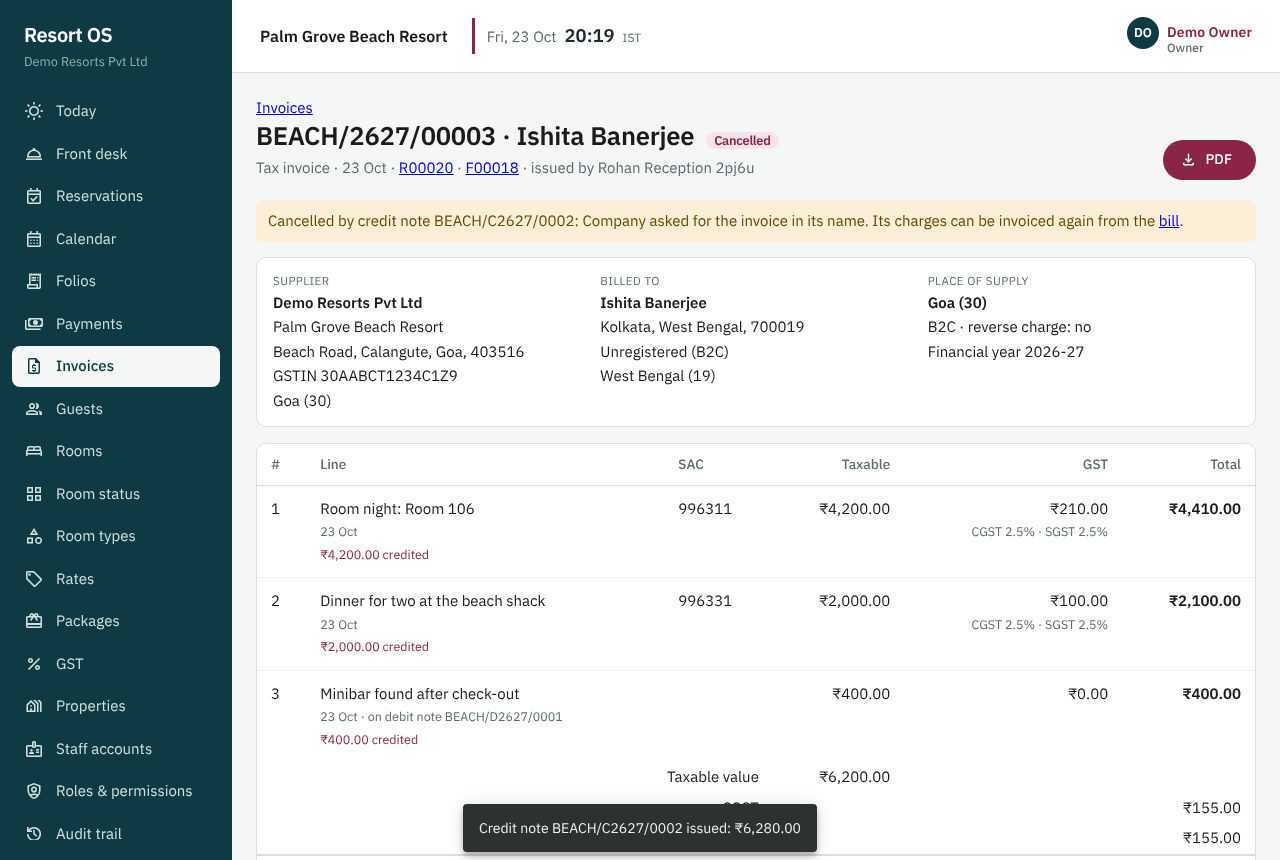
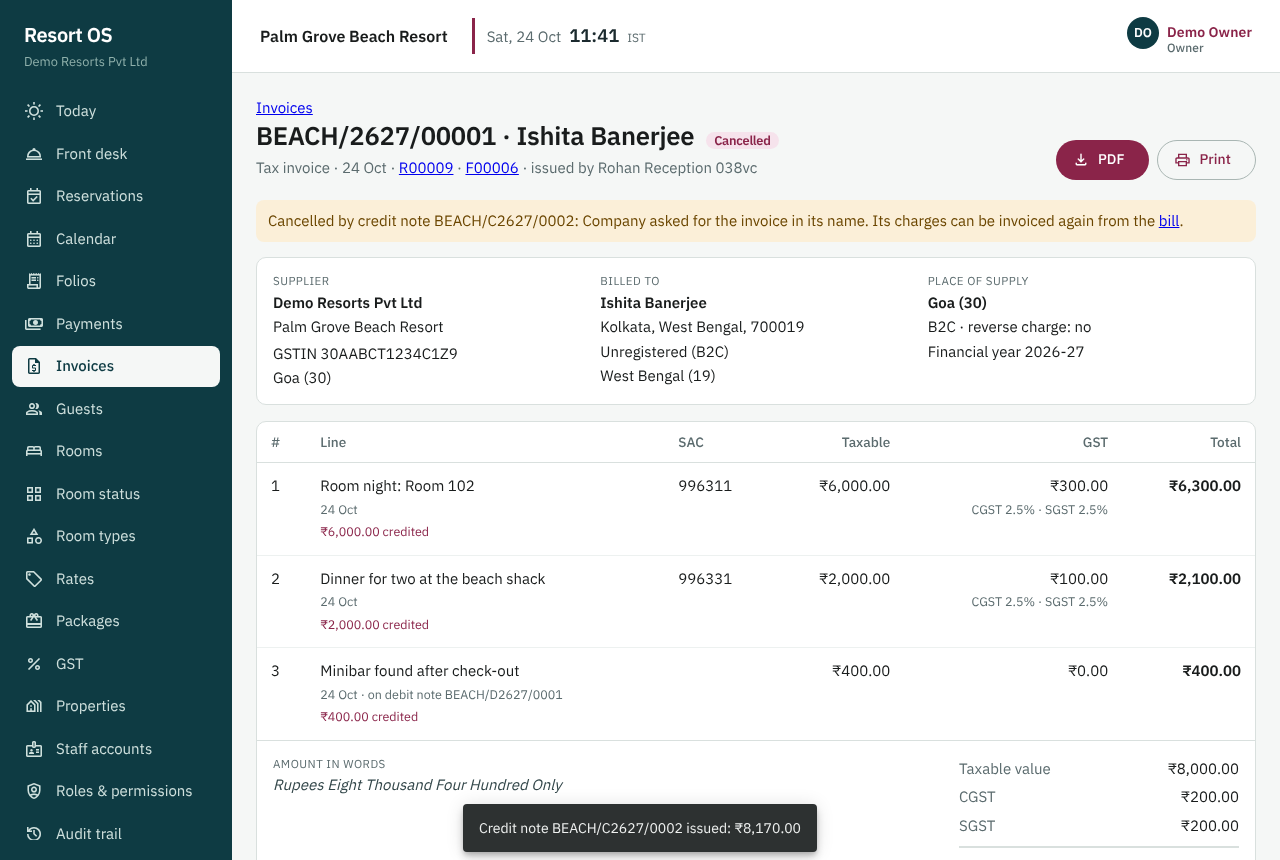
Sprint 12: tidy the invoice screens and PDFs, add Print
- Issue invoice dialog: give it a proper width so nothing is cut off; the lines
  sit in a boxed table with date, SAC and tax rates on a second line; fields
  are spaced so hints no longer touch the next label.
- Credit note dialog: lines in a boxed list, one row each, amount aligned.
- Invoice page: totals in a right-hand block (taxable value, CGST, SGST,
  invoice total) beside the amount in words, instead of scattered table rows.
- Invoices list: space between the number and its status chip.
- Print button on the invoice, its notes and receipts: opens the browser's
  print dialog on the same A4 PDF.
- PDF: wider HSN/SAC column, roomier rows, totals labels no longer wrap.
- Screenshots re-taken.

Claude-Session: https://claude.ai/code/session_01YUGRFpoQRR4EgvNozatgo4

diff --git a/frontend/src/app/features/invoices/invoice.page.ts b/frontend/src/app/features/invoices/invoice.page.ts
@@ -36,6 +36,7 @@ import { InvoicesApi, PdfKind, invoiceStatusClass, invoiceStatusLabel, lineTaxTe
           </div>
           <div class="head-actions">
             <button mat-flat-button (click)="pdf('invoices', i.id, i.number)" [disabled]="busy()"><mat-icon>download</mat-icon>PDF</button>
+            <button mat-stroked-button (click)="print('invoices', i.id)" [disabled]="busy()"><mat-icon>print</mat-icon>Print</button>
             @if (canCredit() && i.status !== 'CANCELLED' && i.outstanding > 0) {
               <button mat-stroked-button (click)="credit()" [disabled]="busy()"><mat-icon>remove_circle_outline</mat-icon>Credit note</button>
             }
@@ -82,17 +83,17 @@ import { InvoicesApi, PdfKind, invoiceStatusClass, invoiceStatusLabel, lineTaxTe
                 </tr>
               }
             </tbody>
-            <tfoot>
-              <tr><td colspan="3" class="right">Taxable value</td><td class="right num">{{ money(i.taxableValue) }}</td><td class="hide-sm"></td><td></td></tr>
-              @if (i.cgst) { <tr><td colspan="3" class="right">CGST</td><td></td><td class="hide-sm"></td><td class="right num">{{ money(i.cgst) }}</td></tr> }
-              @if (i.sgst) { <tr><td colspan="3" class="right">SGST</td><td></td><td class="hide-sm"></td><td class="right num">{{ money(i.sgst) }}</td></tr> }
-              @if (i.igst) { <tr><td colspan="3" class="right">IGST</td><td></td><td class="hide-sm"></td><td class="right num">{{ money(i.igst) }}</td></tr> }
-              <tr class="grand"><td colspan="3" class="right"><b>Invoice total</b></td><td></td><td class="hide-sm"></td>
-                <td class="right num"><b data-testid="invoice-total">{{ money(i.total) }}</b></td></tr>
-            </tfoot>
           </table>
-          <p class="words">{{ i.amountInWords }}</p>
-          @if (i.notes) { <p class="mute words">{{ i.notes }}</p> }
+          <div class="foot">
+            <div class="words"><span>Amount in words</span>{{ i.amountInWords }}@if (i.notes) { <p class="mute">{{ i.notes }}</p> }</div>
+            <dl class="totals" data-testid="totals">
+              <div><dt>Taxable value</dt><dd class="num">{{ money(i.taxableValue) }}</dd></div>
+              @if (i.cgst) { <div><dt>CGST</dt><dd class="num">{{ money(i.cgst) }}</dd></div> }
+              @if (i.sgst) { <div><dt>SGST</dt><dd class="num">{{ money(i.sgst) }}</dd></div> }
+              @if (i.igst) { <div><dt>IGST</dt><dd class="num">{{ money(i.igst) }}</dd></div> }
+              <div class="grand"><dt>Invoice total</dt><dd class="num" data-testid="invoice-total">{{ money(i.total) }}</dd></div>
+            </dl>
+          </div>
         </div>
 
         @if (i.creditNotes.length || i.debitNotes.length) {
@@ -116,8 +117,9 @@ import { InvoicesApi, PdfKind, invoiceStatusClass, invoiceStatusLabel, lineTaxTe
                     <td class="hide-sm">@for (l of n.lines; track l.lineNo) { <div>{{ l.description }} <small class="mute num">{{ money(l.total) }}</small></div> }</td>
                     <td class="right num"><b [class.bad]="n.kind === 'CREDIT_NOTE'">{{ n.kind === 'CREDIT_NOTE' ? '− ' : '' }}{{ money(n.total) }}</b>
                       <br /><small class="mute">GST {{ money(n.taxTotal) }}</small></td>
-                    <td class="right"><button mat-button (click)="pdf(n.kind === 'CREDIT_NOTE' ? 'credit-notes' : 'debit-notes', n.id, n.number)"
-                      [attr.aria-label]="'PDF of ' + n.number"><mat-icon>download</mat-icon>PDF</button></td>
+                    <td class="right doc-actions"><button mat-button (click)="pdf(noteKind(n), n.id, n.number)"
+                      [attr.aria-label]="'PDF of ' + n.number"><mat-icon>download</mat-icon>PDF</button>
+                      <button mat-icon-button (click)="print(noteKind(n), n.id)" [attr.aria-label]="'Print ' + n.number"><mat-icon>print</mat-icon></button></td>
                   </tr>
                 }
               </tbody>
@@ -136,7 +138,8 @@ import { InvoicesApi, PdfKind, invoiceStatusClass, invoiceStatusLabel, lineTaxTe
                   <td class="hide-sm"><a [routerLink]="['/payments', r.paymentId]" class="num">{{ r.paymentNumber }}</a> · {{ methodLabel(r.method) }}
                     @if (r.paymentReference) { <small class="mute"> · {{ r.paymentReference }}</small> }</td>
                   <td class="right num"><b>{{ money(r.amount) }}</b></td>
-                  <td class="right"><button mat-button (click)="pdf('receipts', r.id, r.number)" [attr.aria-label]="'PDF of ' + r.number"><mat-icon>download</mat-icon>PDF</button></td>
+                  <td class="right doc-actions"><button mat-button (click)="pdf('receipts', r.id, r.number)" [attr.aria-label]="'PDF of ' + r.number"><mat-icon>download</mat-icon>PDF</button>
+                    <button mat-icon-button (click)="print('receipts', r.id)" [attr.aria-label]="'Print ' + r.number"><mat-icon>print</mat-icon></button></td>
                 </tr>
               } @empty {
                 <tr><td colspan="4" class="empty">No receipt yet. A receipt is issued for each payment on the booking at check-out, or from the payment.</td></tr>
@@ -154,6 +157,7 @@ import { InvoicesApi, PdfKind, invoiceStatusClass, invoiceStatusLabel, lineTaxTe
     .wide { max-width: 1100px; }
     h2 { margin: 20px 0 8px; }
     .head-actions { display: flex; gap: 8px; flex-wrap: wrap; }
+    .doc-actions { white-space: nowrap; }
     .note { background: #fbefd8; color: #6b4600; border-radius: 8px; padding: 10px 12px; }
     .parties { display: grid; grid-template-columns: repeat(3, 1fr); gap: 16px; background: #fff; border: 1px solid #d9e0de; border-radius: 10px;
                padding: 14px 16px; margin-bottom: 16px; }
@@ -163,7 +167,18 @@ import { InvoicesApi, PdfKind, invoiceStatusClass, invoiceStatusLabel, lineTaxTe
     .sums > div { display: flex; flex-direction: column; background: #fff; border: 1px solid #d9e0de; border-radius: 10px; padding: 10px 14px; min-width: 140px; }
     .sums span { color: #5b6b6e; font-size: .8rem; }
     .sums b { font-size: 1.2rem; color: #0e3b43; }
-    .words { padding: 8px 16px 12px; margin: 0; font-style: italic; }
+    .foot { display: flex; justify-content: space-between; align-items: flex-start; gap: 24px; padding: 14px 16px 16px;
+            border-top: 1px solid #d9e0de; }
+    .words { font-style: italic; color: #33474a; max-width: 460px; }
+    .words span { display: block; font-style: normal; color: #5b6b6e; text-transform: uppercase; font-size: .72rem; letter-spacing: .04em; margin-bottom: 2px; }
+    .words p { margin: 8px 0 0; font-style: normal; }
+    .totals { margin: 0; min-width: 280px; }
+    .totals > div { display: flex; justify-content: space-between; gap: 24px; padding: 3px 0; }
+    .totals dt { color: #5b6b6e; }
+    .totals dd { margin: 0; text-align: right; }
+    .totals .grand { border-top: 2px solid #d9e0de; margin-top: 6px; padding-top: 8px; font-size: 1.1rem; }
+    .totals .grand dt { color: #1b2a2e; font-weight: 600; }
+    .totals .grand dd { font-weight: 700; color: #0e3b43; }
     .mute { color: #5b6b6e; }
     .why { color: #8a2449; }
     .bad, .sums b.bad { color: #b3261e; }
@@ -176,10 +191,10 @@ import { InvoicesApi, PdfKind, invoiceStatusClass, invoiceStatusLabel, lineTaxTe
     .chip.off { background: #eceff0; color: #5b6b6e; }
     .chip.wait { background: #fbefd8; color: #8a5a00; }
     tr.reversed b { text-decoration: line-through; color: #7a8a8c; }
-    tfoot td { border-bottom: 0; padding-top: 4px; padding-bottom: 4px; }
-    tfoot tr.grand td { border-top: 2px solid #d9e0de; padding-top: 10px; }
     @media (max-width: 760px) {
       .parties { grid-template-columns: 1fr; }
+      .foot { flex-direction: column-reverse; }
+      .totals { width: 100%; min-width: 0; }
       table.data td, table.data th { padding: 10px 8px; }
     }
   `,
@@ -239,8 +254,20 @@ export class InvoicePage {
     });
   }
 
+  noteKind(n: InvoiceNote): PdfKind { return n.kind === 'CREDIT_NOTE' ? 'credit-notes' : 'debit-notes'; }
+
+  /** Opens the browser's print dialog on the same PDF the download gives. */
+  print(kind: PdfKind, id: string) {
+    this.error.set('');
+    this.busy.set(true);
+    this.api.print(this.pid(), kind, id).subscribe({
+      next: () => this.busy.set(false),
+      error: e => { this.busy.set(false); this.error.set(toProblem(e).detail); },
+    });
+  }
+
   credit() {
-    this.dialog.open(CreditNoteDialog, { data: { propertyId: this.pid(), invoice: this.i()!, canCancel: this.canCancel() }, autoFocus: 'first-tabbable' })
+    this.dialog.open(CreditNoteDialog, { data: { propertyId: this.pid(), invoice: this.i()!, canCancel: this.canCancel() }, width: '640px', maxWidth: '95vw', autoFocus: 'first-tabbable' })
       .afterClosed().subscribe((r: Invoice | undefined) => {
         if (!r) return;
         this.i.set(r);

diff --git a/frontend/src/app/features/invoices/invoice-dialogs.ts b/frontend/src/app/features/invoices/invoice-dialogs.ts
@@ -31,20 +31,24 @@ export interface IssueInvoiceData { propertyId: string; preview: InvoicePreview;
   template: `
     <h2 mat-dialog-title>Issue the {{ title.toLowerCase() }} for <span class="num">{{ p.folioNumber }}</span></h2>
     <form mat-dialog-content [formGroup]="form" (ngSubmit)="save()" id="invoice-form">
-      <table class="lines" aria-label="Lines on the invoice">
-        <thead><tr><th>Line</th><th class="right">Taxable</th><th class="right">GST</th><th class="right">Total</th></tr></thead>
-        <tbody>
-          @for (l of p.lines; track l.folioItemId) {
-            <tr><td>{{ l.description }} <small class="mute">· {{ shortDate(l.serviceDate) }}@if (l.hsnSac) { · SAC {{ l.hsnSac }} }</small>
-                  @if (l.discount) { <br /><small class="mute">{{ money(l.grossAmount) }} less {{ money(l.discount) }} credited</small> }</td>
-              <td class="right num">{{ money(l.taxableValue) }}</td>
-              <td class="right num">{{ money(l.taxAmount) }}@if (l.taxes.length) { <br /><small class="mute">{{ taxText(l) }}</small> }</td>
-              <td class="right num">{{ money(l.total) }}</td></tr>
-          }
-        </tbody>
-        <tfoot><tr><td><b>Total</b></td><td class="right num">{{ money(p.taxableValue) }}</td><td class="right num">{{ money(p.taxTotal) }}</td>
-          <td class="right num"><b data-testid="invoice-total">{{ money(p.total) }}</b></td></tr></tfoot>
-      </table>
+      <div class="preview">
+        <table class="lines" aria-label="Lines on the invoice">
+          <thead><tr><th>Line</th><th class="right">Taxable</th><th class="right">GST</th><th class="right">Total</th></tr></thead>
+          <tbody>
+            @for (l of p.lines; track l.folioItemId) {
+              <tr>
+                <td>{{ l.description }}<small class="mute">{{ shortDate(l.serviceDate) }}@if (l.hsnSac) { · SAC {{ l.hsnSac }} }
+                  @if (l.discount) { · {{ money(l.grossAmount) }} less {{ money(l.discount) }} credited }</small></td>
+                <td class="right num">{{ money(l.taxableValue) }}</td>
+                <td class="right num">{{ money(l.taxAmount) }}<small class="mute">{{ taxText(l) || 'No GST' }}</small></td>
+                <td class="right num">{{ money(l.total) }}</td>
+              </tr>
+            }
+          </tbody>
+          <tfoot><tr><td>Total</td><td class="right num">{{ money(p.taxableValue) }}</td><td class="right num">{{ money(p.taxTotal) }}</td>
+            <td class="right num" data-testid="invoice-total">{{ money(p.total) }}</td></tr></tfoot>
+        </table>
+      </div>
 
       <h3>Bill to</h3>
       <mat-form-field appearance="outline" class="full">
@@ -80,7 +84,7 @@ export interface IssueInvoiceData { propertyId: string; preview: InvoicePreview;
         <input matInput formControlName="notes" maxlength="500" placeholder="e.g. Company booking via Acme" />
         <mat-error>{{ err('notes') }}</mat-error>
       </mat-form-field>
-      <p class="hint">Place of supply is {{ supplyState() }}, where the resort is, so a hotel stay is charged CGST and SGST even
+      <p class="info">Place of supply is {{ supplyState() }}, where the resort is, so a hotel stay is charged CGST and SGST even
         for a company from another state. Once issued, the invoice can't be changed: correct it with a credit note.</p>
       @if (error()) { <p class="err" role="alert">{{ error() }}</p> }
     </form>
@@ -90,18 +94,23 @@ export interface IssueInvoiceData { propertyId: string; preview: InvoicePreview;
     </div>
   `,
   styles: `
-    form { min-width: min(620px, 86vw); display: flex; flex-direction: column; }
-    h3 { margin: 16px 0 8px; font-size: 1rem; }
-    .lines { width: 100%; border-collapse: collapse; margin-bottom: 4px; }
-    .lines th { text-align: left; color: #5b6b6e; font-weight: 500; font-size: .85rem; padding: 4px 6px; border-bottom: 1px solid #d9e0de; }
-    .lines td { padding: 6px; border-bottom: 1px solid #edf1f0; vertical-align: top; }
-    .lines tfoot td { border-bottom: 0; border-top: 2px solid #d9e0de; }
+    form { display: flex; flex-direction: column; gap: 8px; }
+    form > * { flex-shrink: 0; }
+    h3 { margin: 12px 0 4px; font-size: 1rem; font-weight: 500; }
+    .preview { border: 1px solid #d9e0de; border-radius: 10px; overflow-x: auto; }
+    .lines { width: 100%; border-collapse: collapse; }
+    .lines th { text-align: left; color: #5b6b6e; font-weight: 500; font-size: .8rem; padding: 8px 12px; background: #f6f8f7;
+                border-bottom: 1px solid #d9e0de; white-space: nowrap; }
+    .lines td { padding: 8px 12px; border-bottom: 1px solid #edf1f0; vertical-align: top; }
+    .lines td small { display: block; margin-top: 2px; font-size: .78rem; }
+    .lines td.num { white-space: nowrap; }
+    .lines tfoot td { border-bottom: 0; font-weight: 600; background: #f6f8f7; }
     .right { text-align: right !important; }
     .full { width: 100%; }
-    .row { display: grid; grid-template-columns: 1fr 1fr; gap: 12px; }
+    .row { display: grid; grid-template-columns: 1fr 1fr; gap: 0 16px; }
     .upper { text-transform: uppercase; }
-    .hint, .mute { color: #5b6b6e; }
-    .hint { margin: 4px 0 8px; font-size: .9rem; }
+    .mute { color: #5b6b6e; }
+    .info { margin: 4px 0 0; padding: 10px 12px; border-radius: 8px; background: #eef4f3; color: #33474a; font-size: .88rem; line-height: 1.4; }
     .err { color: #b3261e; }
     @media (max-width: 600px) { .row { grid-template-columns: 1fr; } }
   `,
@@ -213,7 +222,7 @@ export interface CreditNoteData { propertyId: string; invoice: Invoice; canCance
               <mat-checkbox formControlName="on">{{ l.description }}@if (l.debitNoteNumber) { <small class="mute"> · {{ l.debitNoteNumber }}</small> }
                 <br /><small class="mute">{{ money(l.creditable) }} of {{ money(l.taxableValue) }} left · {{ taxText(l) || 'no GST' }}</small></mat-checkbox>
               @if (lineOn(k)) {
-                <mat-form-field appearance="outline" class="amt">
+                <mat-form-field appearance="outline" class="amt" subscriptSizing="dynamic">
                   <mat-label>Amount (₹)</mat-label>
                   <input matInput type="number" formControlName="amount" min="0.01" [max]="l.creditable" step="0.01" />
                   <mat-error>{{ lineError(k) || 'Enter ₹0.01 to ' + money(l.creditable) + '.' }}</mat-error>
@@ -239,11 +248,14 @@ export interface CreditNoteData { propertyId: string; invoice: Invoice; canCance
     </div>
   `,
   styles: `
-    form { min-width: min(560px, 86vw); display: flex; flex-direction: column; }
+    form { display: flex; flex-direction: column; }
     .mode { margin-bottom: 12px; align-self: flex-start; }
-    .lines { display: flex; flex-direction: column; gap: 4px; max-height: 300px; overflow: auto; margin-bottom: 8px; }
-    .line { display: flex; align-items: flex-start; justify-content: space-between; gap: 12px; flex-wrap: wrap; }
-    .amt { width: 150px; }
+    .lines { display: flex; flex-direction: column; max-height: 320px; overflow: auto; margin-bottom: 12px; border: 1px solid #d9e0de;
+             border-radius: 10px; }
+    .line { display: flex; align-items: center; justify-content: space-between; gap: 12px; flex-wrap: wrap; min-height: 56px;
+            padding: 6px 12px 6px 4px; border-bottom: 1px solid #edf1f0; }
+    .line:last-child { border-bottom: 0; }
+    .amt { width: 150px; padding-top: 6px; }
     .full { width: 100%; }
     .hint, .mute { color: #5b6b6e; }
     .hint { margin: 0 0 8px; }

diff --git a/frontend/src/app/features/invoices/invoices.api.ts b/frontend/src/app/features/invoices/invoices.api.ts
@@ -50,6 +50,14 @@ export class InvoicesApi {
       catchError((e: unknown) => from(jsonError(e)).pipe(switchMap(err => throwError(() => err)))),
     );
   }
+
+  /** Prints a document's PDF: loads it into a hidden frame and opens the browser's print dialog on it. */
+  print(pid: string, kind: PdfKind, id: string): Observable<void> {
+    return this.http.get(`${this.base(pid)}/${kind}/${id}/pdf`, { responseType: 'blob' }).pipe(
+      map(blob => printPdf(blob)),
+      catchError((e: unknown) => from(jsonError(e)).pipe(switchMap(err => throwError(() => err)))),
+    );
+  }
 }
 
 /** The file name in a Content-Disposition header (filename*=UTF-8''… or filename=…). */
@@ -73,6 +81,20 @@ function save(blob: Blob, name: string) {
   a.click();
   a.remove();
   setTimeout(() => URL.revokeObjectURL(url), 1000);
+}
+
+function printPdf(blob: Blob) {
+  const url = URL.createObjectURL(new Blob([blob], { type: 'application/pdf' }));
+  const frame = document.createElement('iframe');
+  frame.style.cssText = 'position:fixed;right:0;bottom:0;width:0;height:0;border:0';
+  frame.src = url;
+  frame.onload = () => {
+    frame.contentWindow?.focus();
+    frame.contentWindow?.print();
+    // the print dialog blocks until closed in most browsers; keep the frame a while for those where it doesn't
+    setTimeout(() => { frame.remove(); URL.revokeObjectURL(url); }, 60_000);
+  };
+  document.body.appendChild(frame);
 }
 
 /** A failed blob request carries the API's JSON error as a Blob: read it back so toProblem shows the real reason. */

diff --git a/frontend/src/app/features/invoices/invoices.page.ts b/frontend/src/app/features/invoices/invoices.page.ts
@@ -57,7 +57,7 @@ type Period = 'today' | 'week' | 'month' | 'all';
           <tbody>
             @for (i of result()?.items ?? []; track i.id) {
               <tr class="clickable" (click)="open(i.id)" tabindex="0" (keydown.enter)="open(i.id)" [attr.data-invoice]="i.number">
-                <td><b class="num">{{ i.number }}</b> <span [class]="'chip ' + statusClass(i.status)">{{ statusLabel(i.status) }}</span>
+                <td><b class="num">{{ i.number }}</b><span [class]="'chip status ' + statusClass(i.status)">{{ statusLabel(i.status) }}</span>
                   <br /><small class="mute">{{ shortDate(i.invoiceDate) }}@if (i.documentType !== 'INVOICE') { · {{ docLabel(i.documentType) }} }
                   @if (i.creditNotes) { · {{ i.creditNotes }} credit note{{ i.creditNotes === 1 ? '' : 's' }} }
                   @if (i.debitNotes) { · {{ i.debitNotes }} debit note{{ i.debitNotes === 1 ? '' : 's' }} }</small></td>
@@ -98,6 +98,7 @@ type Period = 'today' | 'week' | 'month' | 'all';
     .bad { color: #b3261e; }
     .right { text-align: right; }
     .void { text-decoration: line-through; color: #7a8a8c; }
+    .chip.status { margin-left: 8px; }
     .chip.ok { background: #e1f2e8; color: #1d5b36; }
     .chip.back { background: #f6e3ec; color: #8a2449; }
     .chip.off { background: #eceff0; color: #5b6b6e; }

diff --git a/frontend/e2e/sprint-12.spec.ts b/frontend/e2e/sprint-12.spec.ts
@@ -181,8 +181,8 @@ test('S12-04 The company wants the invoice: cancel it with a credit note, then i
   await expect(m.getByTestId('customer')).toHaveText('Acme Travels Pvt Ltd');
   await expect(m.getByTestId('customer-gstin')).toHaveText('GSTIN 27AAPFU0939F1ZV');
   await expect(m.locator('.parties')).toContainText('Goa (30)');
-  await expect(m.locator('tfoot')).toContainText('CGST');
-  await expect(m.locator('tfoot')).not.toContainText('IGST');
+  await expect(m.getByTestId('totals')).toContainText('CGST');
+  await expect(m.getByTestId('totals')).not.toContainText('IGST');
   await expect(m.locator('[data-line^="Dinner"]')).toContainText(`less ${money(600)} credited before`);
   await shot(m, '09-b2b-invoice');
 });

diff --git a/frontend/src/app/features/folios/folio.page.ts b/frontend/src/app/features/folios/folio.page.ts
@@ -239,7 +239,7 @@ export class FolioPage {
       next: preview => {
         this.preview.set(preview);
         if (preview.cantIssueReason) { this.error.set(preview.cantIssueReason); return; }
-        this.dialog.open(IssueInvoiceDialog, { data: { propertyId: this.pid(), preview }, autoFocus: 'first-tabbable' })
+        this.dialog.open(IssueInvoiceDialog, { data: { propertyId: this.pid(), preview }, width: '720px', maxWidth: '95vw', autoFocus: 'first-tabbable' })
           .afterClosed().subscribe((i: Invoice | undefined) => {
             if (!i) return;
             this.load(f.id);

diff --git a/backend/Resort.Infrastructure/Documents/PdfRenderer.cs b/backend/Resort.Infrastructure/Documents/PdfRenderer.cs
@@ -105,9 +105,11 @@ public sealed class PdfRenderer : IPdfRenderer
         if (d.Totals.Count > 0)
         {
             var totals = section.AddTable();
-            totals.AddColumn(Unit.FromCentimeter(12.5));
-            totals.AddColumn(Unit.FromCentimeter(3));
-            totals.AddColumn(Unit.FromCentimeter(2.5));
+            totals.AddColumn(Unit.FromCentimeter(11));
+            totals.AddColumn(Unit.FromCentimeter(4.2));
+            totals.AddColumn(Unit.FromCentimeter(2.8));
+            totals.RightPadding = Unit.FromPoint(3);
+            totals.TopPadding = totals.BottomPadding = Unit.FromPoint(1.5);
             foreach (var (label, value, bold) in d.Totals)
             {
                 var row = totals.AddRow();
@@ -159,7 +161,7 @@ public sealed class PdfRenderer : IPdfRenderer
         table.Borders.Color = Rule;
         table.Borders.Width = 0.5;
         table.LeftPadding = table.RightPadding = Unit.FromPoint(3);
-        table.TopPadding = table.BottomPadding = Unit.FromPoint(2);
+        table.TopPadding = table.BottomPadding = Unit.FromPoint(3);
         foreach (var c in t.Columns)
         {
             var col = table.AddColumn(Unit.FromCentimeter(c.Width));

diff --git a/backend/Resort.Application/Invoicing/InvoicePrinter.cs b/backend/Resort.Application/Invoicing/InvoicePrinter.cs
@@ -103,7 +103,7 @@ public sealed class InvoicePrinter
     private static PrintTable LinesTable(IReadOnlyList<DocumentLineDto> lines, bool supply)
     {
         var discount = lines.Any(l => l.Discount != 0);
-        var columns = new List<PrintColumn> { new("#", 0.7), new("Description", (supply ? 7.3 : 4.3) + (discount ? 0 : 1.6)), new("HSN/SAC", 1.6), new("Qty", 0.9, true), new("Rate ₹", 1.8, true) };
+        var columns = new List<PrintColumn> { new("#", 0.7), new("Description", (supply ? 7.0 : 4.0) + (discount ? 0 : 1.6)), new("HSN/SAC", 1.9), new("Qty", 0.9, true), new("Rate ₹", 1.8, true) };
         if (discount) columns.Add(new("Disc. ₹", 1.6, true));
         columns.Add(new("Taxable ₹", 1.9, true));
         if (!supply) columns.Add(new("GST", 3.3));

diff --git a/docs/sprints/REVIEWING.md b/docs/sprints/REVIEWING.md
@@ -361,7 +361,7 @@ permissions). Screenshots: [sprint-12-screens/](sprint-12-screens/). The browser
 | 1 | **Reservations** → **R00007** → **Bill** → **Post charge**: *Food*, *Dinner at the beach shack*, price *1450* | The line ₹1,522.50 (₹1,450.00 + CGST 2.5% SGST 2.5% ₹72.50). At the top, a new **Issue invoice** button |
 | 2 | **Front desk** → **Departures** → R00007 → **Check out** | The dialog says the bill's GST invoice is issued with a receipt for each payment. **Check out** → *Checked out* |
 | 3 | **The acceptance test.** **Reservations** → **R00007** | Next to **Bill**, **Invoice BEACH/2627/00001**. Click it: *Tax invoice*, *Issued*; supplier *Demo Resorts Pvt Ltd*, GSTIN 30AABCT1234C1Z9, Goa (30); billed to *Ishita Banerjee*, *Unregistered (B2C)*, West Bengal (19); place of supply **Goa (30)**; lines Room night ₹3,500.00 (SAC 996311), Laundry ₹320.00, Dinner ₹1,450.00 + ₹72.50; CGST ₹36.25, SGST ₹36.25, **Invoice total ₹5,342.50**, *Rupees Five Thousand Three Hundred Forty Two and Fifty Paise Only*; under *Receipts* **BEACH/R2627/00001** for P00001, ₹500.00 |
-| 4 | **PDF** (top), then **PDF** on the receipt | `BEACH-2627-00001.pdf`: an A4 *TAX INVOICE* with both parties, each line with its SAC and taxes, a tax summary, *Payments received* with the receipt number, the amount in words and *For Demo Resorts Pvt Ltd · Authorised signatory*. `BEACH-R2627-00001.pdf`: a *RECEIPT* for ₹500.00 cash |
+| 4 | **PDF** (top), then **PDF** on the receipt. Then **Print** (top) | `BEACH-2627-00001.pdf`: an A4 *TAX INVOICE* with both parties, each line with its SAC and taxes, a tax summary, *Payments received* with the receipt number, the amount in words and *For Demo Resorts Pvt Ltd · Authorised signatory*. `BEACH-R2627-00001.pdf`: a *RECEIPT* for ₹500.00 cash. **Print** opens the browser's print dialog on the same A4 invoice |
 | 5 | Click **F00004** (the bill) | Each charge has a small *BEACH/2627/00001* tag and no **Reverse** button. **Invoice BEACH/2627/00001** at the top instead of Issue invoice |
 | 6 | Back on the invoice → **Credit note** → tick *Dinner at the beach shack* → Amount *2000* → Reason *One main course was not served* → **Issue credit note** | Under the amount: *Enter ₹0.01 to ₹1,450.00.* Nothing is issued |
 | 7 | Amount *450* → **Issue credit note** | Before issuing: *Credits ₹450.00 + GST ₹22.50 = ₹472.50*. Then *Credit note BEACH/C2627/0001 issued: ₹472.50*; status **Partly credited**; *Billed ₹5,342.50 · Credited ₹472.50 · Stands at ₹4,870.00*; the dinner line says *₹450.00 credited*. On the bill: a line *Credit note BEACH/C2627/0001: Dinner …* −₹472.50 with the reason; the balance drops by ₹472.50 |
@@ -372,7 +372,7 @@ permissions). Screenshots: [sprint-12-screens/](sprint-12-screens/). The browser
 | 12 | The new invoice | Billed to *Acme Travels Pvt Ltd*, *GSTIN 27AAPFU0939F1ZV*, Maharashtra (27), **B2B**; place of supply still **Goa (30)**, so **CGST ₹25.00 + SGST ₹25.00, no IGST**; the minibar is on it; total ₹5,270.00 |
 | 13 | **Invoices** (menu) → **All** | BEACH/2627/00002 (Issued, Acme, its GSTIN) and BEACH/2627/00001 (Cancelled, struck through, *− ₹5,742.50 credited*, 2 credit notes · 1 debit note). Search *27AAPFU0939F1ZV* finds only the B2B one |
 | 14 | **Payments** → **P00001** → **Receipt** | `BEACH-R2627-00001.pdf` again: the same number as at check-out (a payment gets one receipt) |
-| 15 | Sign in as a **receptionist** → the invoice | **PDF** only: no Credit note or Debit note (accountants and managers above them issue those) |
+| 15 | Sign in as a **receptionist** → the invoice | **PDF** and **Print** only: no Credit note or Debit note (accountants and managers above them issue those) |
 | 16 | Phone width (390 px) → **Invoices** and an invoice | Everything fits; the parties stack under each other |
 
 ## Part C — Decide

diff --git a/CHANGELOG.md b/CHANGELOG.md
@@ -23,7 +23,8 @@ One entry per accepted sprint, tagged `sprint-NN` on `main`. Format: [Keep a Cha
   /payments/{id}/receipt`, `GET /receipts/{id}/pdf`. Taxes are copied from the folio lines, never recalculated; place of
   supply is the property's state; customer GSTINs are validated with their check digit; a composition property issues a
   bill of supply.
-- A4 PDFs drawn on the server with PDFsharp/MigraDoc 6.2.4 (MIT) and an embedded DejaVu Sans font (with ₹).
+- A4 PDFs drawn on the server with PDFsharp/MigraDoc 6.2.4 (MIT) and an embedded DejaVu Sans font (with ₹). Each invoice,
+  note and receipt has **PDF** (download) and **Print** (the browser's print dialog on the same PDF).
 - Staff app: **Invoices** (`/invoices`, `/invoices/:id` with Credit note and Debit note dialogs and PDFs); **Issue
   invoice** on a bill with a preview of the lines and the customer; billed charges marked with their invoice on the bill;
   the booking links to its invoices; **Receipt** on a payment.
